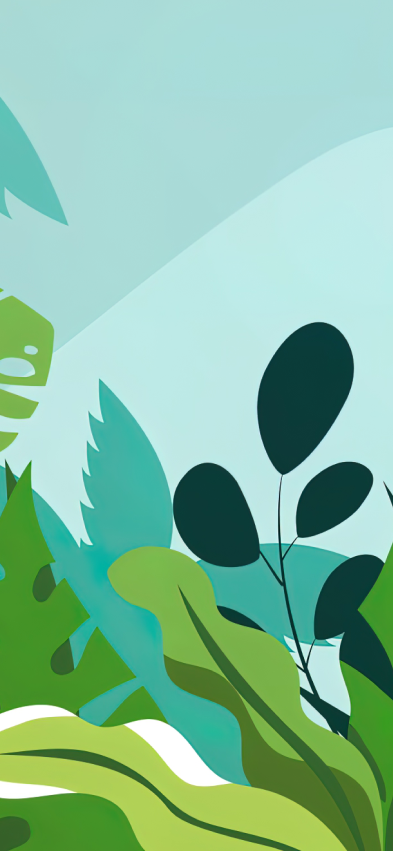
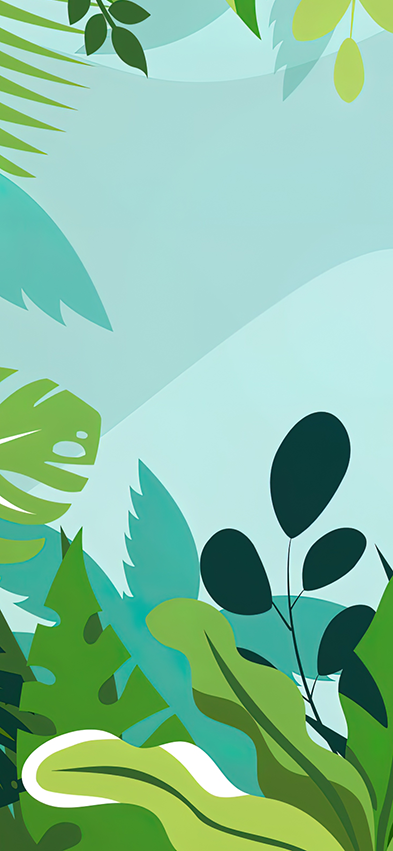
wip

diff --git a/public/assets/css/style.css b/public/assets/css/style.css
@@ -44,12 +44,18 @@ a {
 
 /* WEATHER */
 
-.mainContainer {
-    background: url(/assets/images/jungle-bg-2.png);
+.mainContainerPresent {
+    background: url(/assets/images/jungle-bg.png);
+    height: 100vh;
 }
 
-.mainPage {
-    height: 85vh;
+.mainContainerFuture {
+    background: url(/assets/images/desert-bg.png);
+    height: 100vh;
+    background-position: bottom;
+}
+
+.mainPage, .mainPagePessimistic {
     display: flex;
     justify-content: center;
 }
@@ -84,4 +90,14 @@ a {
 .date,
 .feltTemperature {
     margin-left: 30px;
+}
+
+.scenarioSelectorContainer {
+    margin-top: 300px;
+    display: flex;
+justify-content: center;
+}
+
+.scenarioSelector {
+    width: 25vw;
 }

diff --git a/src/routes.php b/src/routes.php
@@ -9,8 +9,5 @@
 return [
     '' => ['HomeController', 'index',],
     'items' => ['ItemController', 'index',],
-    'items/edit' => ['ItemController', 'edit', ['id']],
-    'items/show' => ['ItemController', 'show', ['id']],
-    'items/add' => ['ItemController', 'add',],
-    'items/delete' => ['ItemController', 'delete',],
+    'future' => ['WeatherController', 'future'],
 ];

diff --git a/src/Controller/WeatherController.php b/src/Controller/WeatherController.php
@@ -16,4 +16,9 @@ class WeatherController extends AbstractController
 
         return $this->twig->render('Item/index.html.twig', ['items' => $items]);
     }
+
+    public function future()
+    {
+        return $this->twig->render('Future/index.html.twig');
+    }
 }
